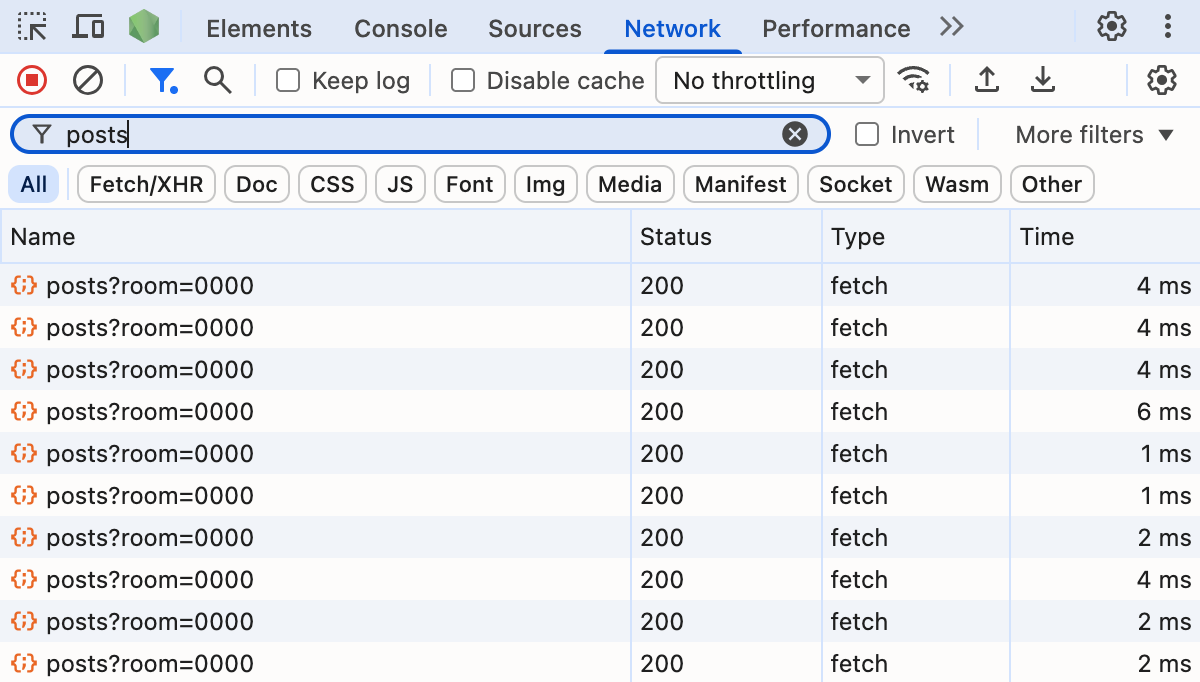
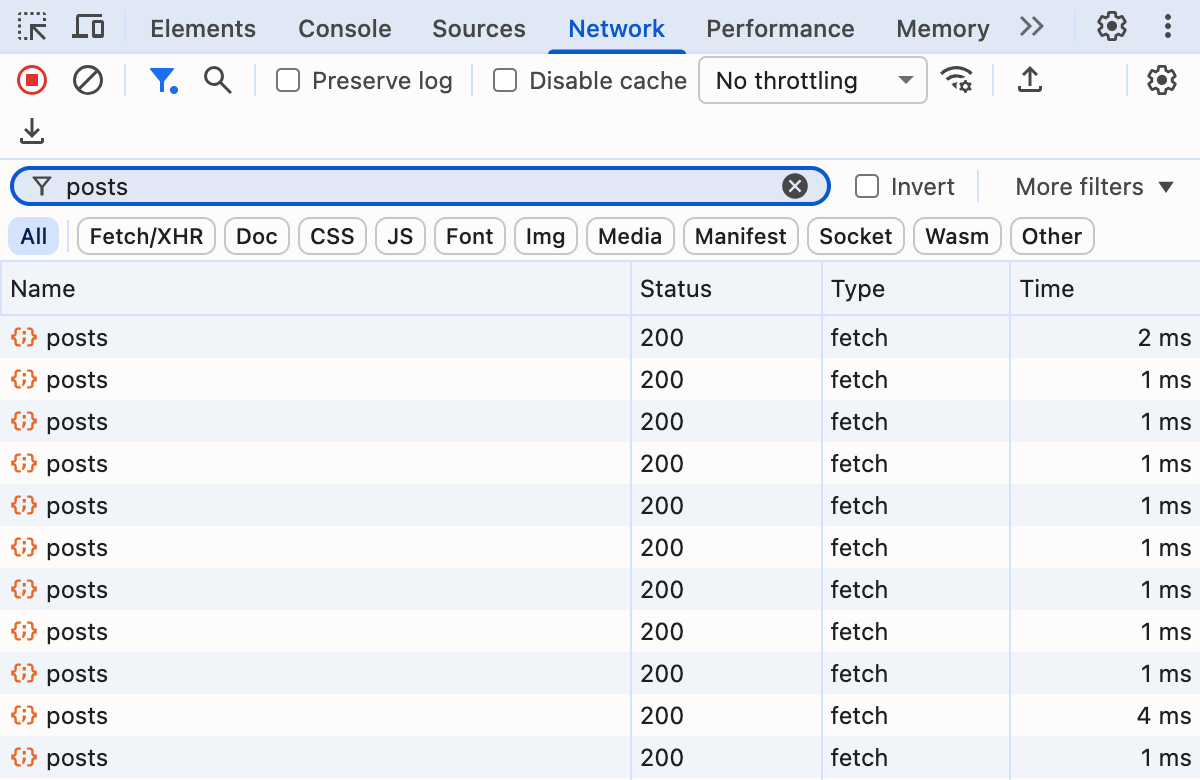
受講者のコードから ROOM を外す

diff --git a/2026/board-advanced/completed/public/script.js b/2026/board-advanced/completed/public/script.js
@@ -2,14 +2,13 @@
 // 共有サーバーに接続し、受信した 1 件だけを配列 posts に追加している状態。
 
 const API = 'https://example.deno.net'; // 当日の URL に差し替える
-const ROOM = '0000'; // 開催回ごとに差し替える
 
 // ブラウザ側で持つ投稿。画面と同じ並び。
 const posts = [];
 
 // サーバーから全件取得して posts に入れる。開いたときに 1 回だけ呼ぶ。
 async function loadPosts() {
-  const res = await fetch(`${API}/posts?room=${ROOM}`);
+  const res = await fetch(`${API}/posts`);
   const loaded = await res.json();
 
   for (const post of loaded) {
@@ -36,7 +35,7 @@ async function addPost() {
   const name = document.getElementById('name-input').value;
   const text = document.getElementById('text-input').value;
 
-  const res = await fetch(`${API}/posts?room=${ROOM}`, {
+  const res = await fetch(`${API}/posts`, {
     method: 'POST',
     headers: { 'Content-Type': 'application/json' },
     body: JSON.stringify({ name: name, text: text }),
@@ -56,7 +55,7 @@ document.getElementById('reload-btn').remove();
 
 loadPosts();
 
-const source = new EventSource(`${API}/events?room=${ROOM}`);
+const source = new EventSource(`${API}/events`);
 function receivePost(e) {
   posts.push(JSON.parse(e.data));
   showPosts();

diff --git a/2026/board-advanced/examples/snapshots/ch3.js b/2026/board-advanced/examples/snapshots/ch3.js
@@ -2,14 +2,13 @@
 // ブラウザ側に投稿の配列を持ち、受信した 1 件だけを追加している状態。
 
 const API = 'https://example.deno.net'; // 当日の URL に差し替える
-const ROOM = '0000'; // 開催回ごとに差し替える
 
 // ブラウザ側で持つ投稿。画面と同じ並び。
 const posts = [];
 
 // サーバーから全件取得して posts に入れる。開いたときに 1 回だけ呼ぶ。
 async function loadPosts() {
-  const res = await fetch(`${API}/posts?room=${ROOM}`);
+  const res = await fetch(`${API}/posts`);
   const loaded = await res.json();
 
   for (const post of loaded) {
@@ -36,7 +35,7 @@ async function addPost() {
   const name = document.getElementById('name-input').value;
   const text = document.getElementById('text-input').value;
 
-  await fetch(`${API}/posts?room=${ROOM}`, {
+  await fetch(`${API}/posts`, {
     method: 'POST',
     headers: { 'Content-Type': 'application/json' },
     body: JSON.stringify({ name: name, text: text }),
@@ -50,7 +49,7 @@ document.getElementById('reload-btn').remove();
 
 loadPosts();
 
-const source = new EventSource(`${API}/events?room=${ROOM}`);
+const source = new EventSource(`${API}/events`);
 function receivePost(e) {
   posts.push(JSON.parse(e.data));
   showPosts();

diff --git a/2026/board-advanced/examples/snapshots/ch5.js b/2026/board-advanced/examples/snapshots/ch5.js
@@ -2,14 +2,13 @@
 // Chapter 5 でサーバー側だけを直したので、Chapter 4 の終わりと同じ内容。
 
 const API = location.origin; // Chapter 4 で自分のサーバーに向けた
-const ROOM = '0000'; // 開催回ごとに差し替える
 
 // ブラウザ側で持つ投稿。画面と同じ並び。
 const posts = [];
 
 // サーバーから全件取得して posts に入れる。開いたときに 1 回だけ呼ぶ。
 async function loadPosts() {
-  const res = await fetch(`${API}/posts?room=${ROOM}`);
+  const res = await fetch(`${API}/posts`);
   const loaded = await res.json();
 
   for (const post of loaded) {
@@ -36,7 +35,7 @@ async function addPost() {
   const name = document.getElementById('name-input').value;
   const text = document.getElementById('text-input').value;
 
-  await fetch(`${API}/posts?room=${ROOM}`, {
+  await fetch(`${API}/posts`, {
     method: 'POST',
     headers: { 'Content-Type': 'application/json' },
     body: JSON.stringify({ name: name, text: text }),
@@ -50,7 +49,7 @@ document.getElementById('reload-btn').remove();
 
 loadPosts();
 
-const source = new EventSource(`${API}/events?room=${ROOM}`);
+const source = new EventSource(`${API}/events`);
 function receivePost(e) {
   posts.push(JSON.parse(e.data));
   showPosts();

diff --git a/2026/board-advanced/examples/snapshots/ch4.js b/2026/board-advanced/examples/snapshots/ch4.js
@@ -2,14 +2,13 @@
 // 接続先を自分のサーバーに変え、接続状態を画面に出している状態。
 
 const API = location.origin; // Chapter 4 で自分のサーバーに向けた
-const ROOM = '0000'; // 開催回ごとに差し替える
 
 // ブラウザ側で持つ投稿。画面と同じ並び。
 const posts = [];
 
 // サーバーから全件取得して posts に入れる。開いたときに 1 回だけ呼ぶ。
 async function loadPosts() {
-  const res = await fetch(`${API}/posts?room=${ROOM}`);
+  const res = await fetch(`${API}/posts`);
   const loaded = await res.json();
 
   for (const post of loaded) {
@@ -36,7 +35,7 @@ async function addPost() {
   const name = document.getElementById('name-input').value;
   const text = document.getElementById('text-input').value;
 
-  await fetch(`${API}/posts?room=${ROOM}`, {
+  await fetch(`${API}/posts`, {
     method: 'POST',
     headers: { 'Content-Type': 'application/json' },
     body: JSON.stringify({ name: name, text: text }),
@@ -50,7 +49,7 @@ document.getElementById('reload-btn').remove();
 
 loadPosts();
 
-const source = new EventSource(`${API}/events?room=${ROOM}`);
+const source = new EventSource(`${API}/events`);
 function receivePost(e) {
   posts.push(JSON.parse(e.data));
   showPosts();

diff --git a/2026/board-advanced/examples/snapshots/ch2.js b/2026/board-advanced/examples/snapshots/ch2.js
@@ -2,10 +2,9 @@
 // ポーリングをやめて、共有サーバーから届いた合図で読み込み直している状態。
 
 const API = 'https://example.deno.net'; // 当日の URL に差し替える
-const ROOM = '0000'; // 開催回ごとに差し替える
 
 async function showPosts() {
-  const res = await fetch(`${API}/posts?room=${ROOM}`);
+  const res = await fetch(`${API}/posts`);
   const posts = await res.json();
 
   const list = document.getElementById('posts');
@@ -23,7 +22,7 @@ async function addPost() {
   const name = document.getElementById('name-input').value;
   const text = document.getElementById('text-input').value;
 
-  await fetch(`${API}/posts?room=${ROOM}`, {
+  await fetch(`${API}/posts`, {
     method: 'POST',
     headers: { 'Content-Type': 'application/json' },
     body: JSON.stringify({ name: name, text: text }),
@@ -38,5 +37,5 @@ document.getElementById('reload-btn').addEventListener('click', showPosts);
 
 showPosts();
 
-const source = new EventSource(`${API}/events?room=${ROOM}`);
+const source = new EventSource(`${API}/events`);
 source.onmessage = showPosts;

diff --git a/2026/board-advanced/examples/snapshots/ch1.js b/2026/board-advanced/examples/snapshots/ch1.js
@@ -2,10 +2,9 @@
 // 10 秒ごとに読み込み直している状態。更新ボタンはそのまま残している。
 
 const API = 'https://example.deno.net'; // 当日の URL に差し替える
-const ROOM = '0000'; // 開催回ごとに差し替える
 
 async function showPosts() {
-  const res = await fetch(`${API}/posts?room=${ROOM}`);
+  const res = await fetch(`${API}/posts`);
   const posts = await res.json();
 
   const list = document.getElementById('posts');
@@ -23,7 +22,7 @@ async function addPost() {
   const name = document.getElementById('name-input').value;
   const text = document.getElementById('text-input').value;
 
-  await fetch(`${API}/posts?room=${ROOM}`, {
+  await fetch(`${API}/posts`, {
     method: 'POST',
     headers: { 'Content-Type': 'application/json' },
     body: JSON.stringify({ name: name, text: text }),

diff --git a/2026/board-advanced/template/public/script.js b/2026/board-advanced/template/public/script.js
@@ -1,8 +1,7 @@
 const API = 'https://example.deno.net'; // 当日の URL に差し替える
-const ROOM = '0000'; // 開催回ごとに差し替える
 
 async function showPosts() {
-  const res = await fetch(`${API}/posts?room=${ROOM}`);
+  const res = await fetch(`${API}/posts`);
   const posts = await res.json();
 
   const list = document.getElementById('posts');
@@ -20,7 +19,7 @@ async function addPost() {
   const name = document.getElementById('name-input').value;
   const text = document.getElementById('text-input').value;
 
-  await fetch(`${API}/posts?room=${ROOM}`, {
+  await fetch(`${API}/posts`, {
     method: 'POST',
     headers: { 'Content-Type': 'application/json' },
     body: JSON.stringify({ name: name, text: text }),
